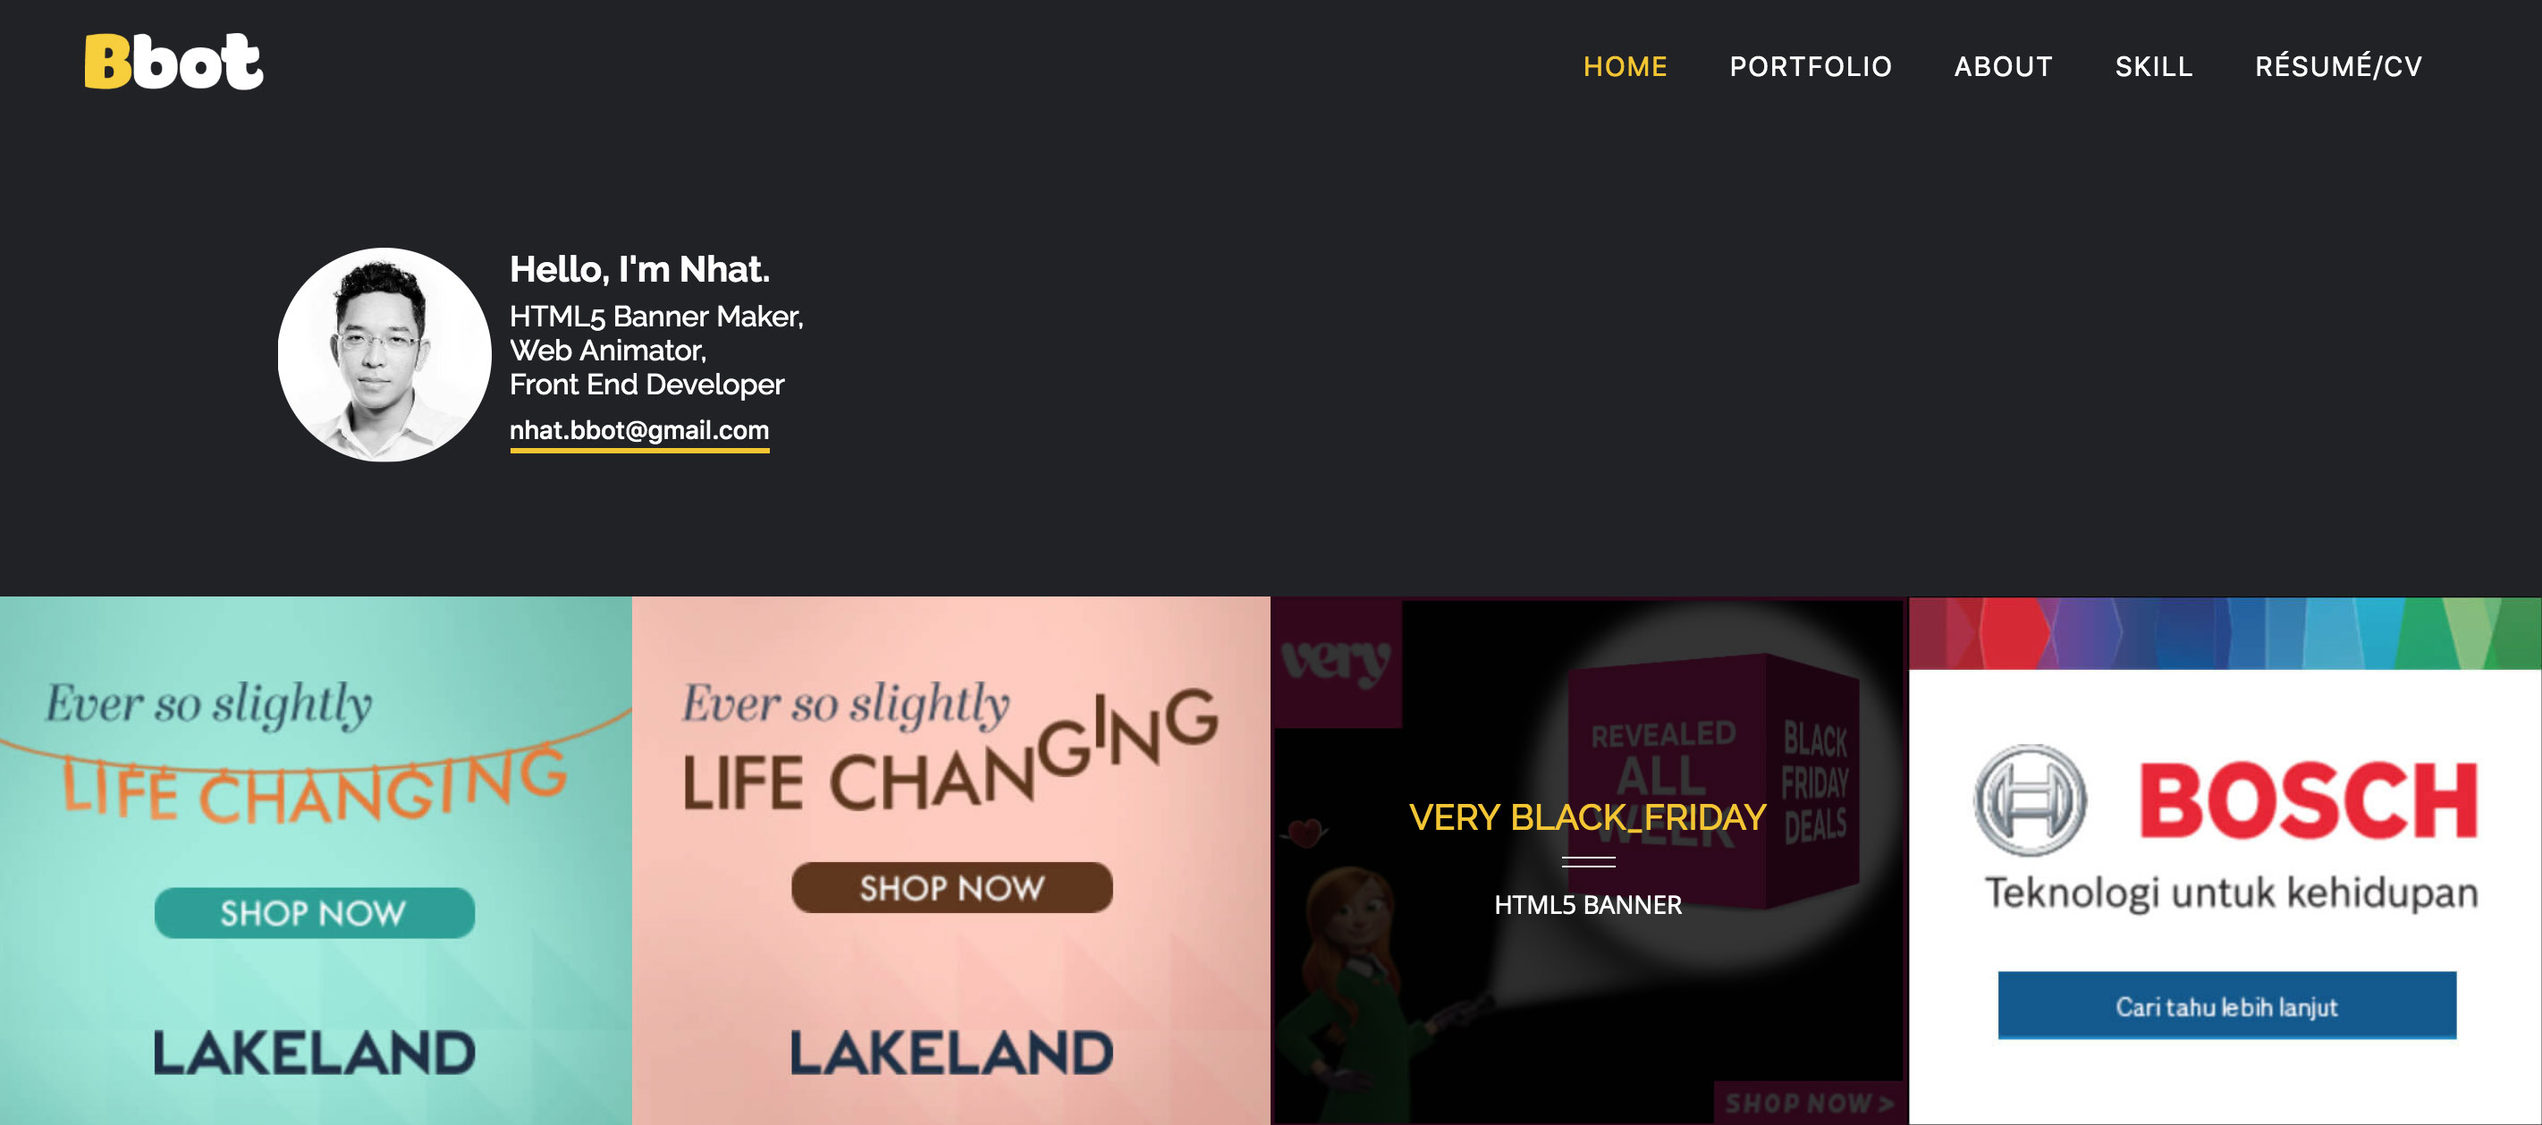
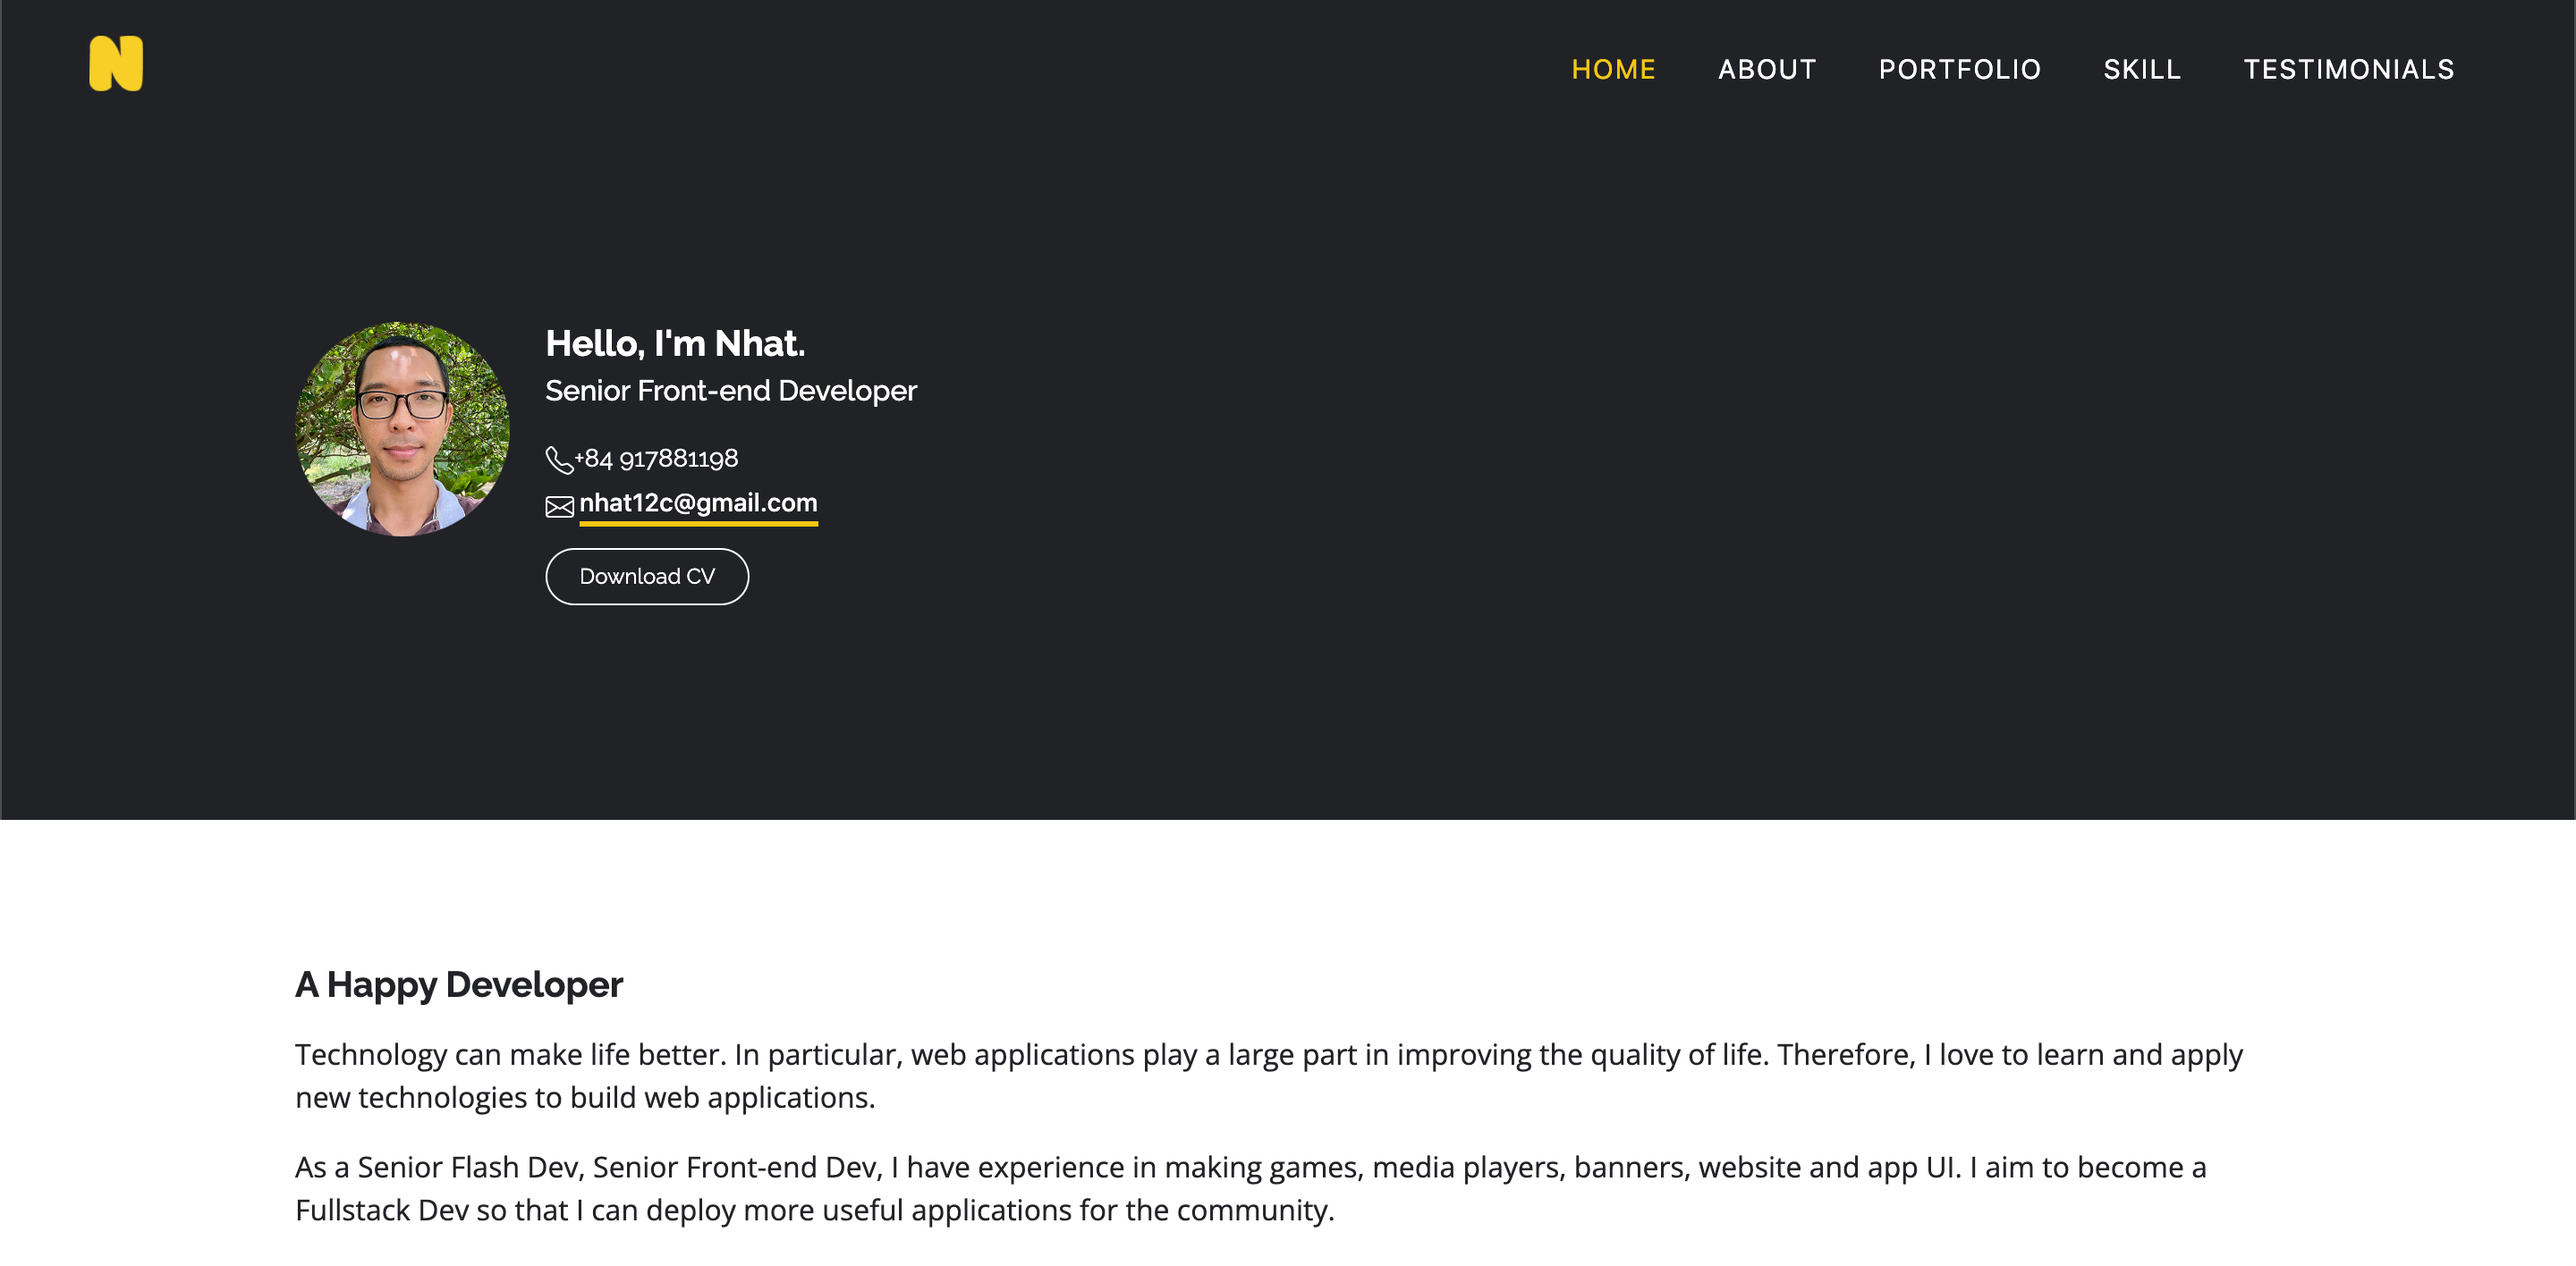
update portfolio link for react app

diff --git a/index.html b/index.html
@@ -8,11 +8,11 @@
     <meta name="decription" content="Creative freelancer online banner website with html5, css3, jQuery, greensock gsap">
     <meta name="keywords" content="banner, html5 banner ,online banner, animation, animator, banner designer, freelancer, good animation">
 
-    <meta property="og:image" content="img/fbcover.jpg" />
+    <meta property="og:image" content="img/fbcover.jpg"/>
     <meta property="og:type"  content="website" />
-    <meta property="og:title" content="Senior HTML5 Banner Developer" />
+    <meta property="og:title" content="Senior Front-end Developer" />
     <meta property="og:description" content="Design, animate custom HTML5 banner ads for various platforms like Google Ads, DoubleClick, Sizmek, Adform, IAB." />
-    <title>BBOT Banner Services</title>
+    <title>Nhat Portfolio</title>
 
     <!--Bootstrap 4.3.1-->
     <link rel="stylesheet" href="https://stackpath.bootstrapcdn.com/bootstrap/4.3.1/css/bootstrap.min.css" integrity="sha384-ggOyR0iXCbMQv3Xipma34MD+dH/1fQ784/j6cY/iJTQUOhcWr7x9JvoRxT2MZw1T" crossorigin="anonymous">
@@ -46,7 +46,7 @@
         <nav class="navbar navbar-expand-md fixed-top">
             <div class="nav-wrapper">
                 <a class="nav-brand smooth-scroll" href="#home">
-                    <img src="img/logo/logo-dark.png" alt="logo">
+                    <img src="img/logo/logo.png" alt="logo">
                 </a>    
                 
                 <!-- Mobile menu open button -->
@@ -148,7 +148,7 @@
                 <!--Portfolio Item 1-->
                 <div class="col-sm-6 col-md-4">
                     <div id="pi1" class="portfolio-item">
-                        <a href="#">
+                        <a href="https://tqnhat.github.io/my-portfolio/">
                             <img src="img/app/b3.jpg" alt="react website" class="img-fluid">
                             <div class="portfolio-item--overlay">
                                 <div class="portfolio-item--overlay__detail">

diff --git a/js/script.js b/js/script.js
@@ -30,7 +30,7 @@ $(function () {
         if($(window).scrollTop() > 50){
             //show white navigation
             $("nav").addClass("white-nav-top");
-            $(".nav-brand img").attr("src", "img/logo/logo-dark.png");
+            $(".nav-brand img").attr("src", "img/logo/logo.png");
         }else{
             //hide white navigation
             $("nav").removeClass("white-nav-top");

diff --git a/sass/layout/_navigation.scss b/sass/layout/_navigation.scss
@@ -14,7 +14,7 @@
 }
 .nav-brand {
     img {
-        width: 10rem;
+        width: 3rem;
         height: auto;
     }
 }

diff --git a/css/style.css b/css/style.css
@@ -395,7 +395,7 @@ footer span {
 }
 
 .nav-brand img {
-  width: 10rem;
+  width: 3rem;
   height: auto;
 }
 
